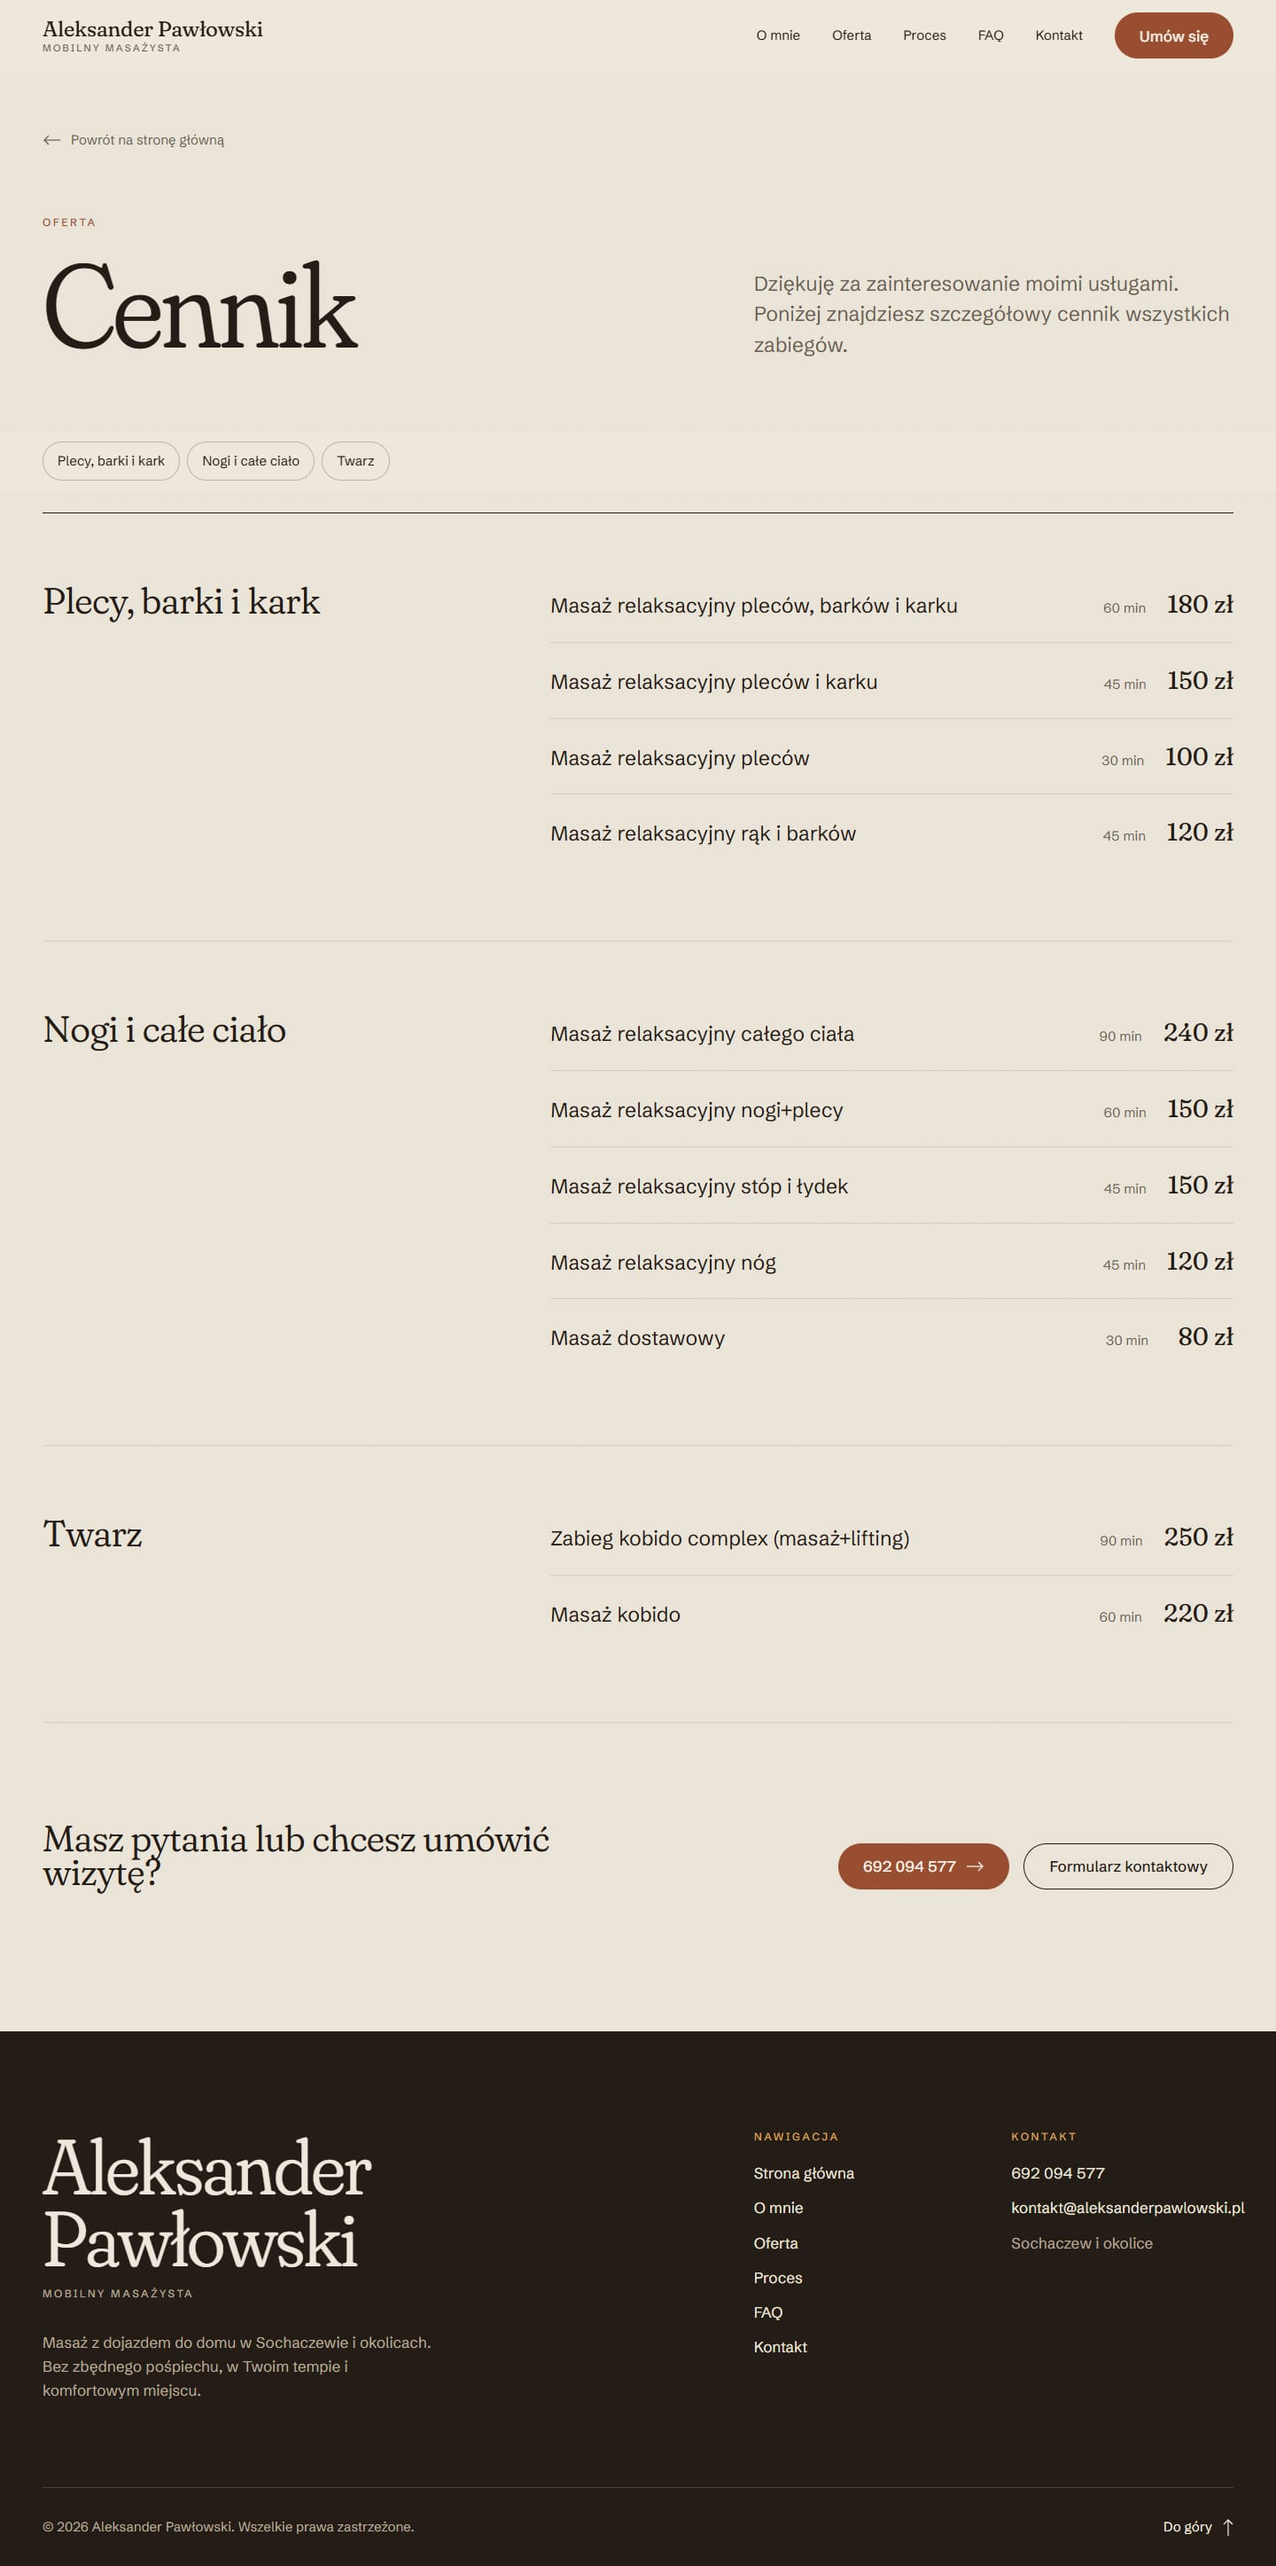
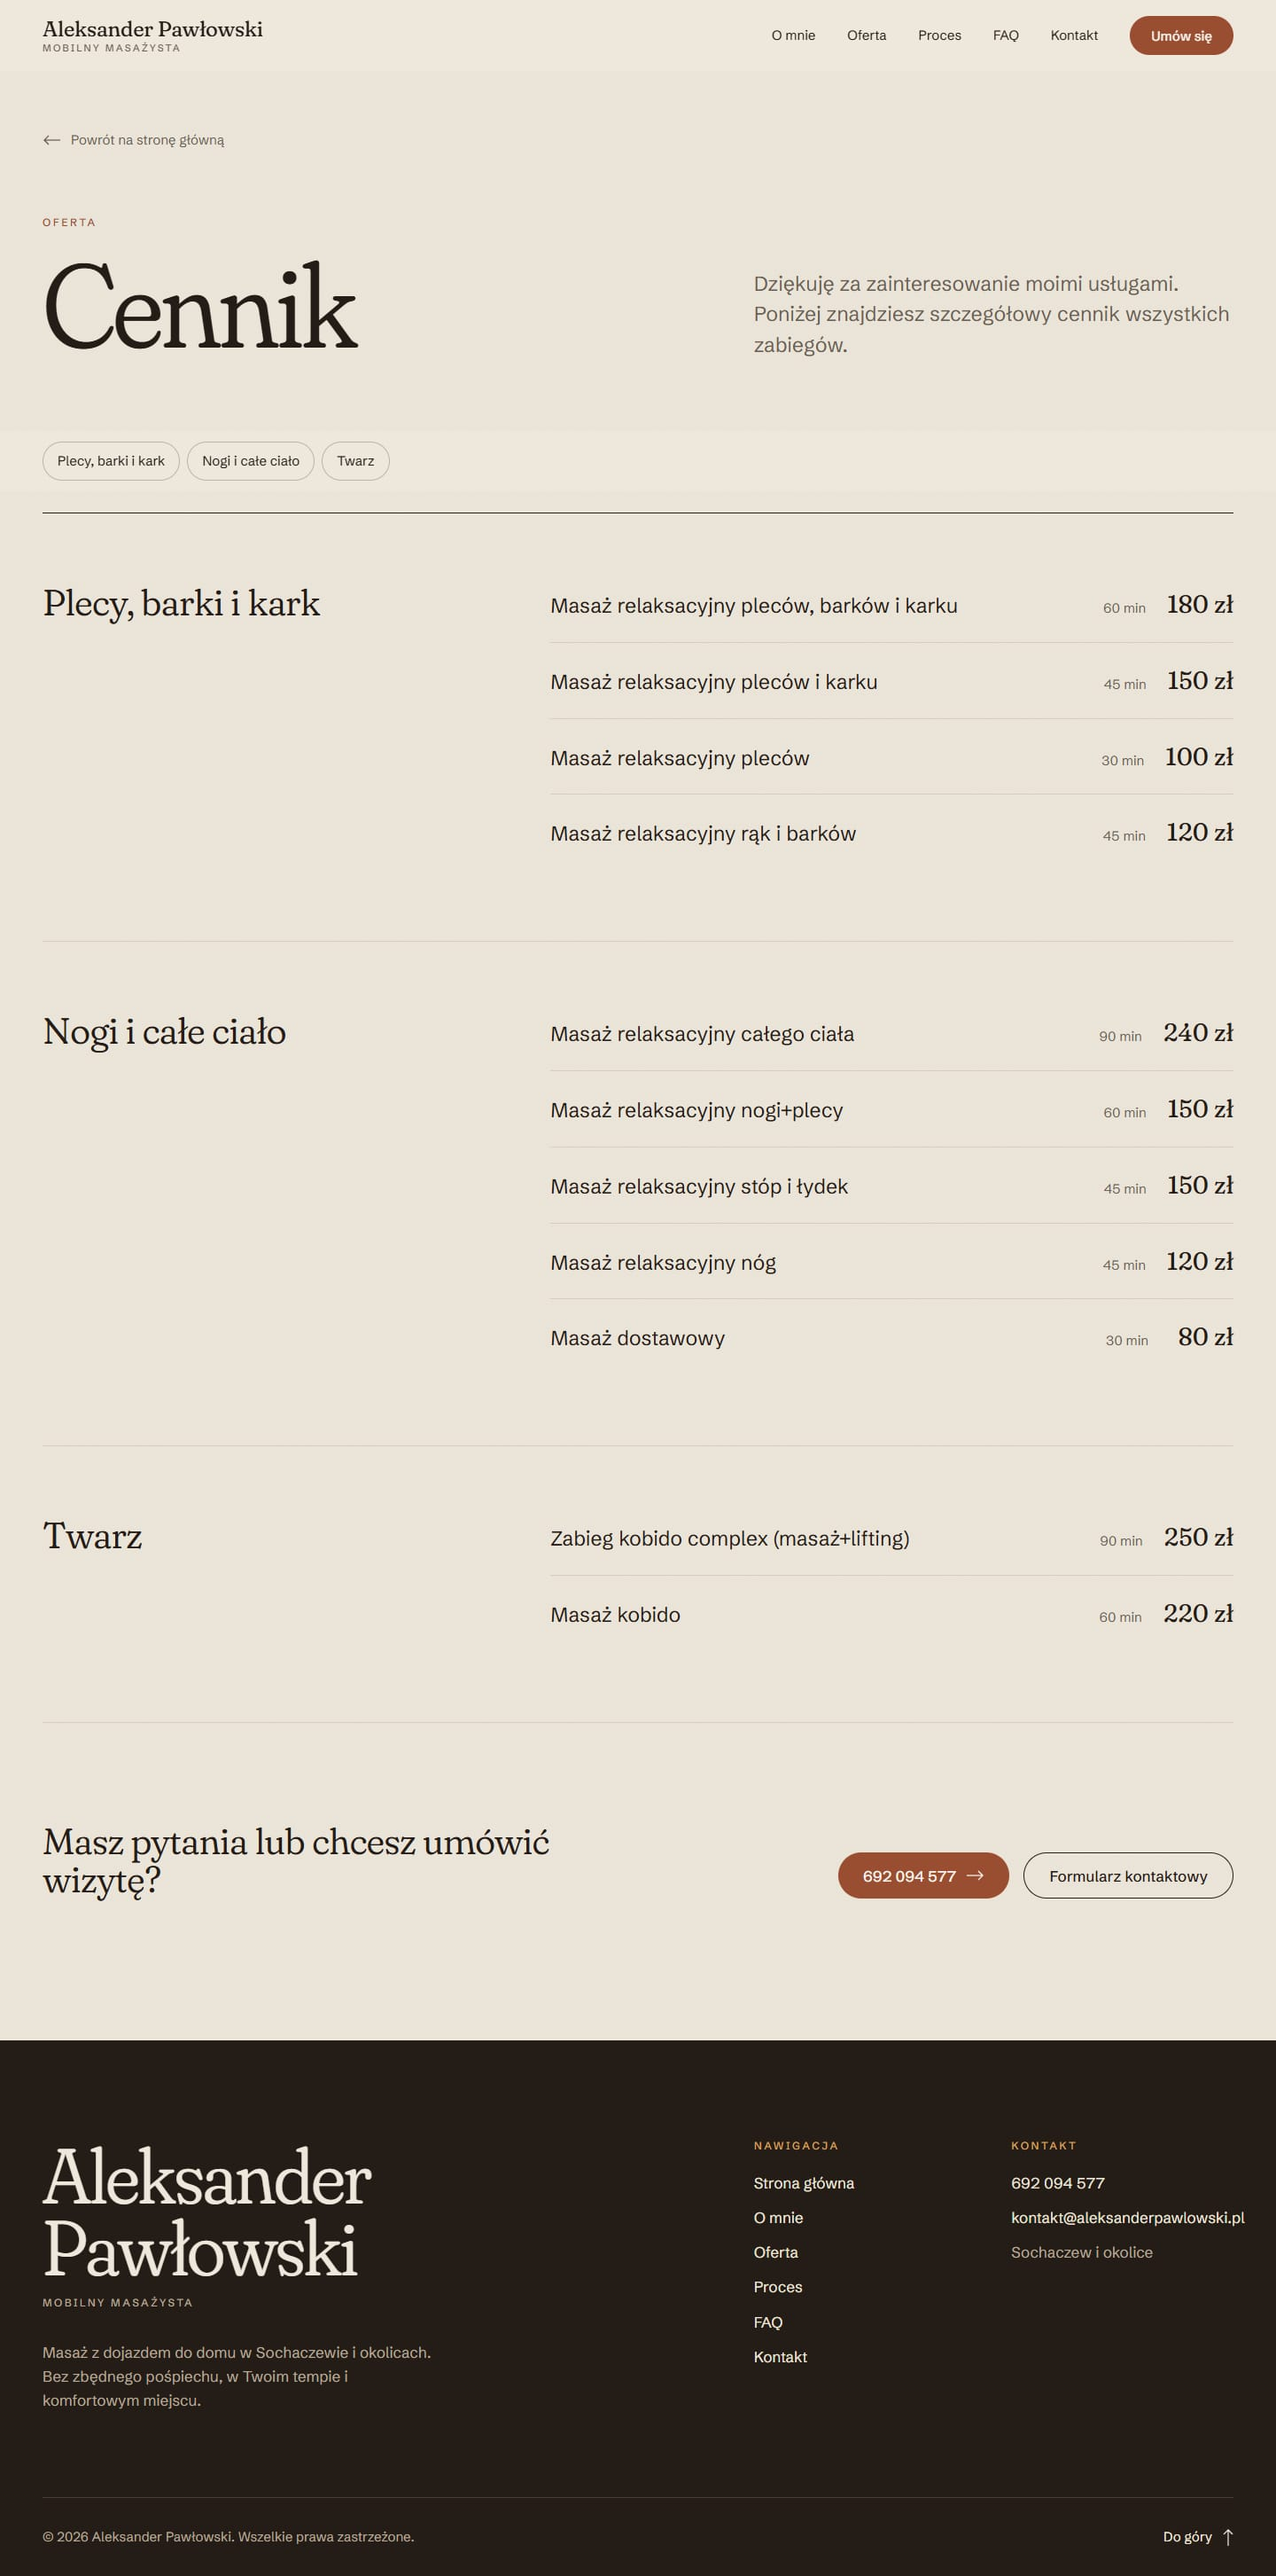
Klasy komponentów w warstwie CSS, żeby utilities Tailwinda je nadpisywały
Wcześniej niewarstwowe .btn, .font-display i .eyebrow wygrywały z utilities
(np. min-h-11 i text-small w przycisku nagłówka). Zrzuty zaktualizowane.

diff --git a/app/globals.css b/app/globals.css
@@ -92,167 +92,170 @@ body {
   outline-color: var(--olej);
 }
 
-/* Typografia */
-.font-display {
-  font-family: var(--font-serif);
-  font-variation-settings: "SOFT" 100, "WONK" 0;
-  font-optical-sizing: auto;
-  font-weight: 340;
-  letter-spacing: -0.022em;
-  line-height: 0.92;
-}
-.font-display em,
-.font-display .italic,
-.font-soft .italic {
-  font-family: var(--font-fraunces-italic), var(--font-fraunces), Georgia, serif;
-  font-style: italic;
-  font-weight: 300;
-}
-.font-soft {
-  font-family: var(--font-serif);
-  font-variation-settings: "SOFT" 100, "WONK" 0;
-  font-optical-sizing: auto;
-}
-.eyebrow {
-  font-family: var(--font-sans);
-  font-size: var(--text-micro);
-  font-weight: 500;
-  letter-spacing: 0.22em;
-  line-height: 1.2;
-  text-transform: uppercase;
-  color: var(--glina);
-}
-.on-dark .eyebrow {
-  color: var(--olej);
-}
-.tabular {
-  font-variant-numeric: tabular-nums lining-nums;
-}
-
-.container-site {
-  width: 100%;
-  max-width: 90rem;
-  margin-inline: auto;
-  padding-inline: var(--gutter);
-}
-
-/* Przyciski: miękkie „wciśnięcie” zamiast skakania */
-.btn {
-  display: inline-flex;
-  align-items: center;
-  justify-content: center;
-  gap: 0.75rem;
-  min-height: 3.25rem;
-  padding: 0 1.75rem;
-  border-radius: 999px;
-  font-weight: 500;
-  font-size: var(--text-body);
-  line-height: 1;
-  white-space: nowrap;
-  transition:
-    background-color 300ms var(--ease-out-soft),
-    color 300ms var(--ease-out-soft),
-    border-color 300ms var(--ease-out-soft),
-    transform 200ms var(--ease-out-soft);
-}
-.btn:active {
-  transform: scale(0.97);
-}
-.btn-primary {
-  background: var(--glina);
-  color: var(--recznik);
-}
-.btn-primary:hover {
-  background: var(--glina-ciemna);
-}
-.btn-outline {
-  border: 1px solid var(--orzech);
-  color: var(--orzech);
-}
-.btn-outline:hover {
-  background: var(--orzech);
-  color: var(--recznik);
-}
-.on-dark .btn-primary {
-  background: var(--olej);
-  color: var(--orzech);
-}
-.on-dark .btn-primary:hover {
-  background: var(--recznik);
-}
-.btn .btn-arrow {
-  transition: transform 300ms var(--ease-out-soft);
-}
-.btn:hover .btn-arrow,
-.link-arrow:hover .btn-arrow {
-  transform: translateX(4px);
-}
-
-/* Podkreślenie, które „rozlewa się” jak olejek */
-.link-underline {
-  background-image: linear-gradient(currentColor, currentColor);
-  background-size: 100% 1px;
-  background-position: 0 100%;
-  background-repeat: no-repeat;
-  padding-bottom: 2px;
-  transition: background-size 400ms var(--ease-out-soft);
-}
-.link-underline:hover {
-  background-size: 0% 1px;
-  background-position: 100% 100%;
-}
-
-/* FAQ: natywny <details> z płynnym otwieraniem */
-.faq-item summary {
-  list-style: none;
-  cursor: pointer;
-}
-.faq-item summary::-webkit-details-marker {
-  display: none;
-}
-.faq-item .faq-icon {
-  transition: transform 400ms var(--ease-out-soft);
-}
-.faq-item[open] .faq-icon {
-  transform: rotate(45deg);
-}
-@supports (interpolate-size: allow-keywords) {
-  .faq-list {
-    interpolate-size: allow-keywords;
+/* Klasy komponentów w warstwie, żeby utilities Tailwinda mogły je nadpisywać */
+@layer components {
+  /* Typografia */
+  .font-display {
+    font-family: var(--font-serif);
+    font-variation-settings: "SOFT" 100, "WONK" 0;
+    font-optical-sizing: auto;
+    font-weight: 340;
+    letter-spacing: -0.022em;
+    line-height: 0.92;
   }
-  .faq-item::details-content {
-    height: 0;
-    overflow: clip;
+  .font-display em,
+  .font-display .italic,
+  .font-soft .italic {
+    font-family: var(--font-fraunces-italic), var(--font-fraunces), Georgia, serif;
+    font-style: italic;
+    font-weight: 300;
+  }
+  .font-soft {
+    font-family: var(--font-serif);
+    font-variation-settings: "SOFT" 100, "WONK" 0;
+    font-optical-sizing: auto;
+  }
+  .eyebrow {
+    font-family: var(--font-sans);
+    font-size: var(--text-micro);
+    font-weight: 500;
+    letter-spacing: 0.22em;
+    line-height: 1.2;
+    text-transform: uppercase;
+    color: var(--glina);
+  }
+  .on-dark .eyebrow {
+    color: var(--olej);
+  }
+  .tabular {
+    font-variant-numeric: tabular-nums lining-nums;
+  }
+  
+  .container-site {
+    width: 100%;
+    max-width: 90rem;
+    margin-inline: auto;
+    padding-inline: var(--gutter);
+  }
+  
+  /* Przyciski: miękkie „wciśnięcie” zamiast skakania */
+  .btn {
+    display: inline-flex;
+    align-items: center;
+    justify-content: center;
+    gap: 0.75rem;
+    min-height: 3.25rem;
+    padding: 0 1.75rem;
+    border-radius: 999px;
+    font-weight: 500;
+    font-size: var(--text-body);
+    line-height: 1;
+    white-space: nowrap;
     transition:
-      height 500ms var(--ease-out-soft),
-      content-visibility 500ms allow-discrete;
+      background-color 300ms var(--ease-out-soft),
+      color 300ms var(--ease-out-soft),
+      border-color 300ms var(--ease-out-soft),
+      transform 200ms var(--ease-out-soft);
   }
-  .faq-item[open]::details-content {
-    height: auto;
+  .btn:active {
+    transform: scale(0.97);
   }
-}
-
-/* Mapa napięć */
-.zone {
-  fill: var(--piasek-jasny);
-  stroke: var(--kamien);
-  stroke-width: 1.25;
-  cursor: pointer;
-  transition:
-    fill 300ms var(--ease-out-soft),
-    stroke 300ms var(--ease-out-soft);
-}
-.zone:hover {
-  fill: #ecc795;
-}
-.zone[data-active="true"] {
-  fill: var(--olej);
-  stroke: var(--glina-ciemna);
-}
-.zone-static {
-  fill: var(--recznik);
-  stroke: var(--kamien);
-  stroke-width: 1.25;
+  .btn-primary {
+    background: var(--glina);
+    color: var(--recznik);
+  }
+  .btn-primary:hover {
+    background: var(--glina-ciemna);
+  }
+  .btn-outline {
+    border: 1px solid var(--orzech);
+    color: var(--orzech);
+  }
+  .btn-outline:hover {
+    background: var(--orzech);
+    color: var(--recznik);
+  }
+  .on-dark .btn-primary {
+    background: var(--olej);
+    color: var(--orzech);
+  }
+  .on-dark .btn-primary:hover {
+    background: var(--recznik);
+  }
+  .btn .btn-arrow {
+    transition: transform 300ms var(--ease-out-soft);
+  }
+  .btn:hover .btn-arrow,
+  .link-arrow:hover .btn-arrow {
+    transform: translateX(4px);
+  }
+  
+  /* Podkreślenie, które „rozlewa się” jak olejek */
+  .link-underline {
+    background-image: linear-gradient(currentColor, currentColor);
+    background-size: 100% 1px;
+    background-position: 0 100%;
+    background-repeat: no-repeat;
+    padding-bottom: 2px;
+    transition: background-size 400ms var(--ease-out-soft);
+  }
+  .link-underline:hover {
+    background-size: 0% 1px;
+    background-position: 100% 100%;
+  }
+  
+  /* FAQ: natywny <details> z płynnym otwieraniem */
+  .faq-item summary {
+    list-style: none;
+    cursor: pointer;
+  }
+  .faq-item summary::-webkit-details-marker {
+    display: none;
+  }
+  .faq-item .faq-icon {
+    transition: transform 400ms var(--ease-out-soft);
+  }
+  .faq-item[open] .faq-icon {
+    transform: rotate(45deg);
+  }
+  @supports (interpolate-size: allow-keywords) {
+    .faq-list {
+      interpolate-size: allow-keywords;
+    }
+    .faq-item::details-content {
+      height: 0;
+      overflow: clip;
+      transition:
+        height 500ms var(--ease-out-soft),
+        content-visibility 500ms allow-discrete;
+    }
+    .faq-item[open]::details-content {
+      height: auto;
+    }
+  }
+  
+  /* Mapa napięć */
+  .zone {
+    fill: var(--piasek-jasny);
+    stroke: var(--kamien);
+    stroke-width: 1.25;
+    cursor: pointer;
+    transition:
+      fill 300ms var(--ease-out-soft),
+      stroke 300ms var(--ease-out-soft);
+  }
+  .zone:hover {
+    fill: #ecc795;
+  }
+  .zone[data-active="true"] {
+    fill: var(--olej);
+    stroke: var(--glina-ciemna);
+  }
+  .zone-static {
+    fill: var(--recznik);
+    stroke: var(--kamien);
+    stroke-width: 1.25;
+  }
 }
 
 /* Ruch sterowany scrollem — tylko gdy przeglądarka to wspiera i użytkownik nie prosi o mniej ruchu */
